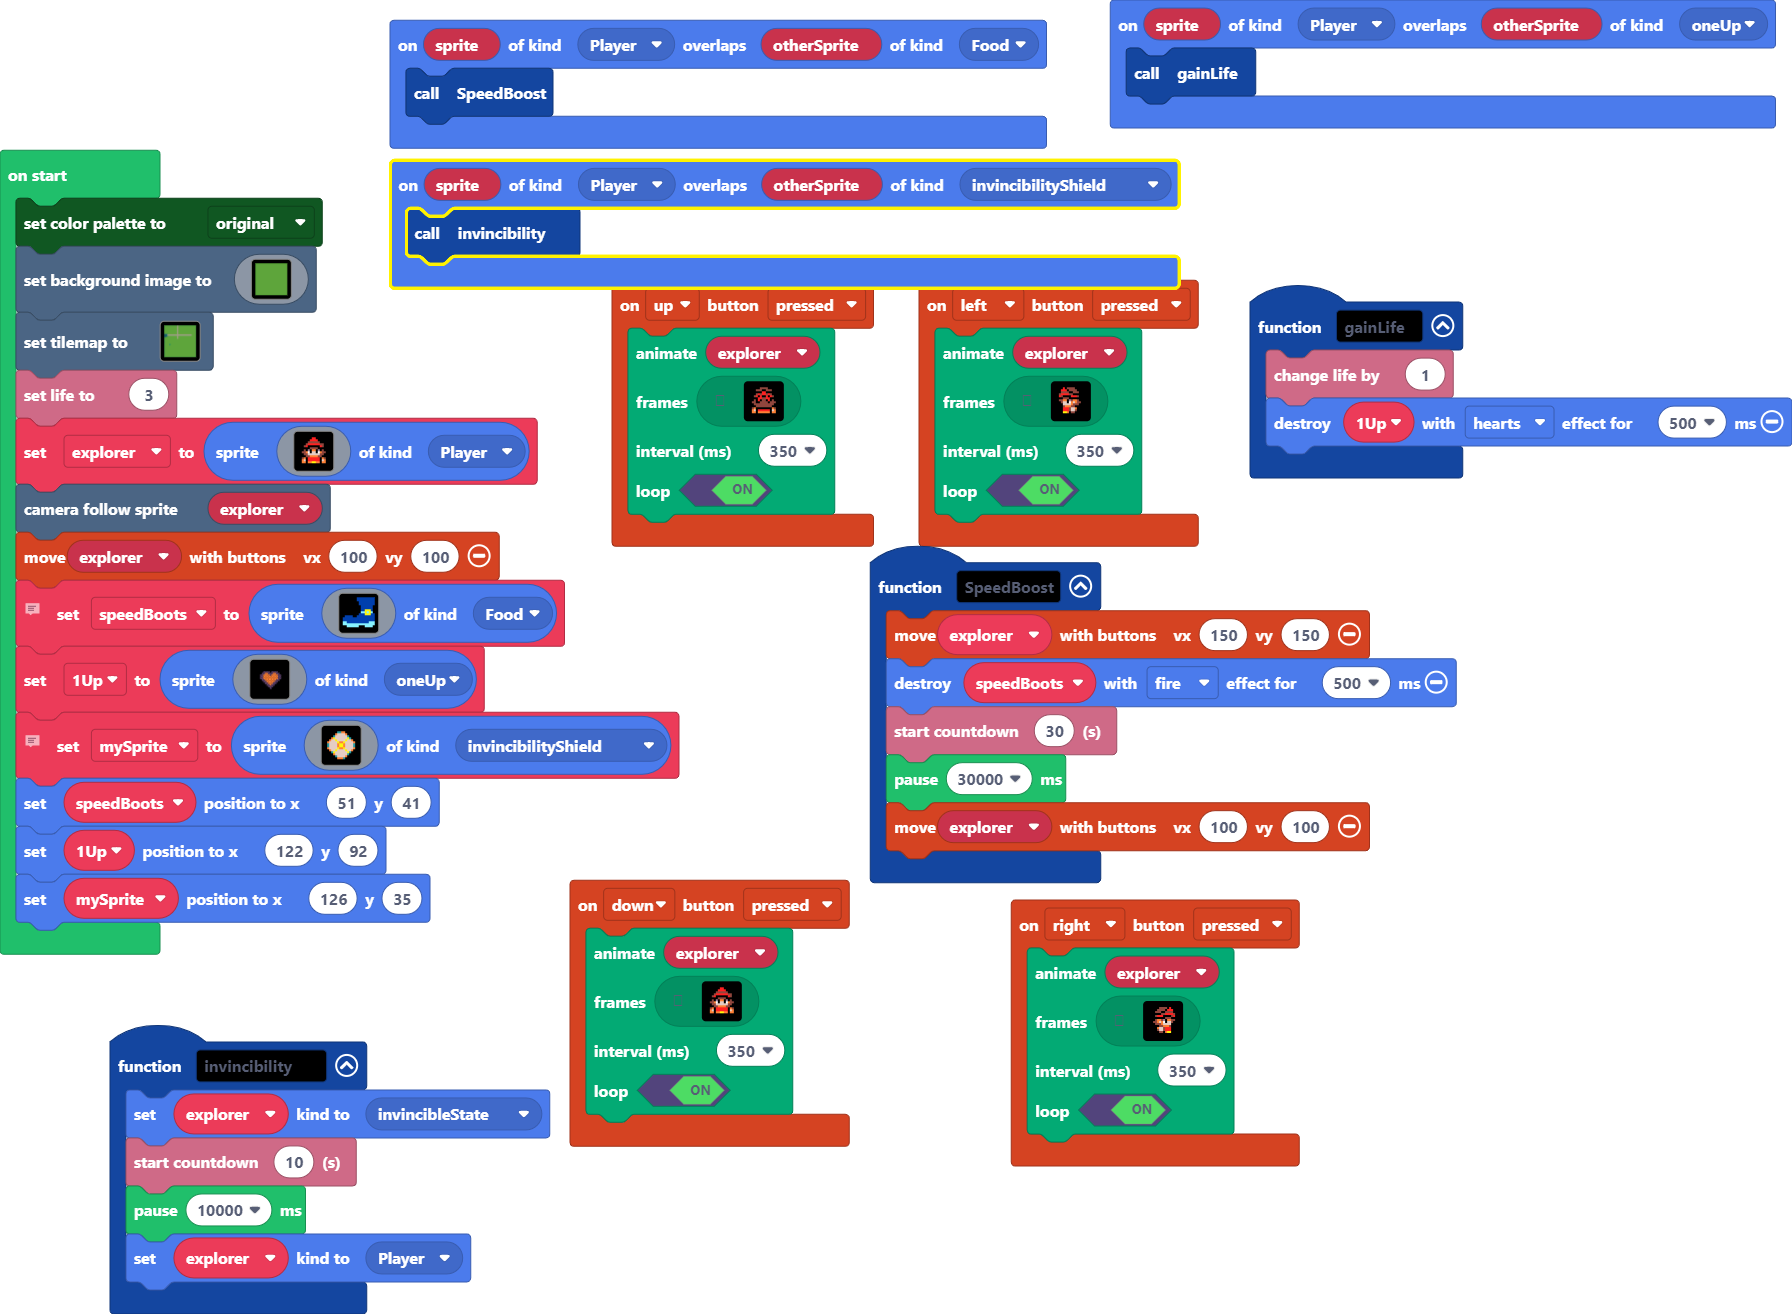
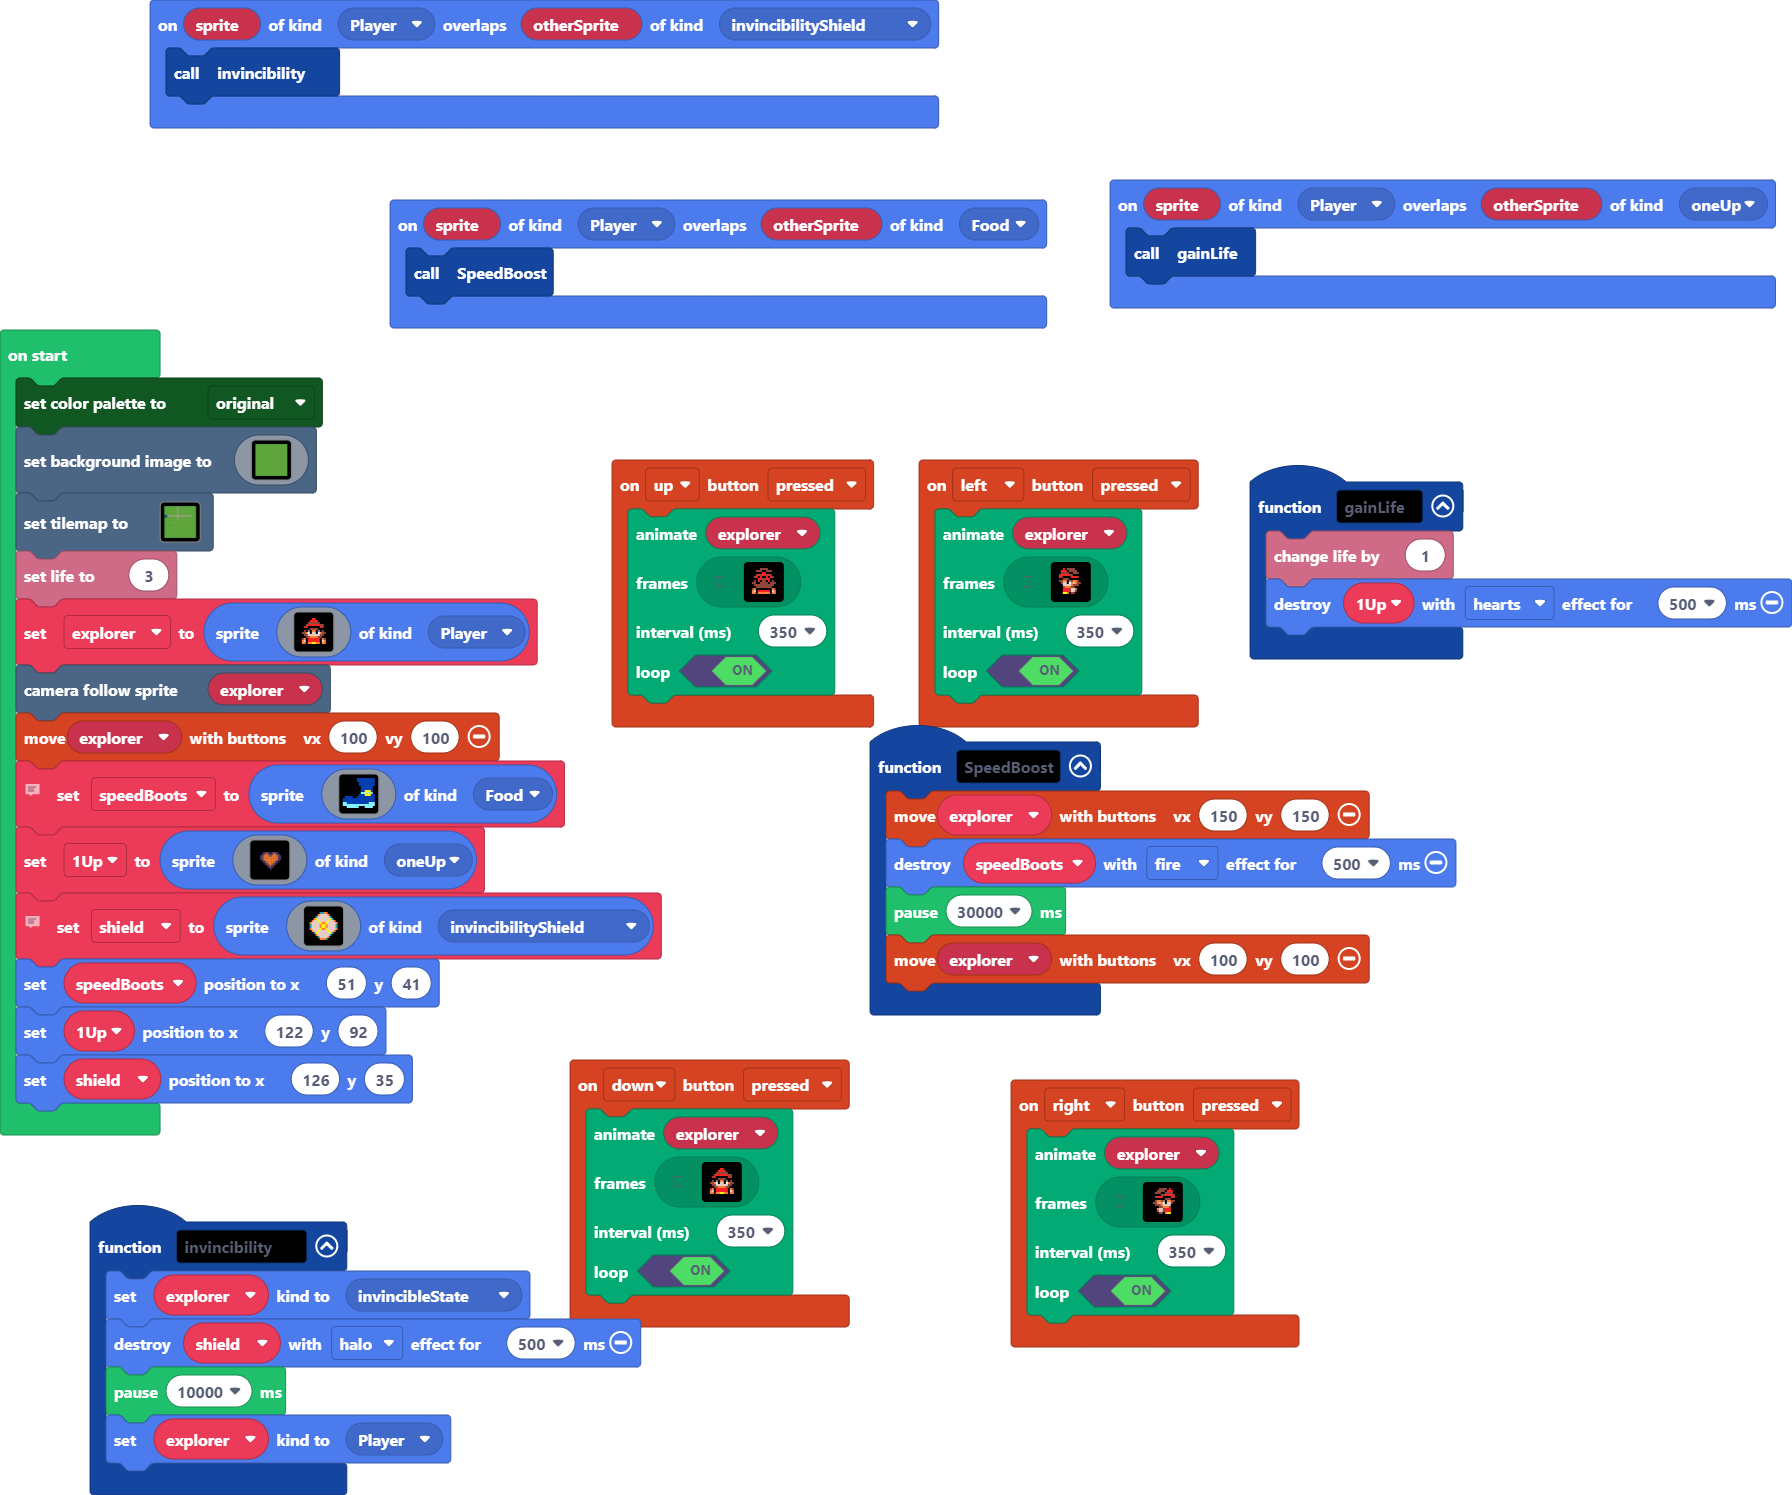
Update pxt.json, main.blocks, main.ts

diff --git a/main.ts b/main.ts
@@ -85,7 +85,6 @@ sprites.onOverlap(SpriteKind.Player, SpriteKind.oneUp, function (sprite, otherSp
 function SpeedBoost () {
     controller.moveSprite(explorer, 150, 150)
     speedBoots.destroy(effects.fire, 500)
-    info.startCountdown(30)
     pause(30000)
     controller.moveSprite(explorer, 100, 100)
 }
@@ -167,7 +166,7 @@ controller.left.onEvent(ControllerButtonEvent.Pressed, function () {
 })
 function invincibility () {
     explorer.setKind(SpriteKind.invincibleState)
-    info.startCountdown(10)
+    shield.destroy(effects.halo, 500)
     pause(10000)
     explorer.setKind(SpriteKind.Player)
 }
@@ -333,6 +332,7 @@ function gainLife () {
     info.changeLifeBy(1)
     _1Up.destroy(effects.hearts, 500)
 }
+let shield: Sprite = null
 let _1Up: Sprite = null
 let speedBoots: Sprite = null
 let explorer: Sprite = null
@@ -516,7 +516,7 @@ _1Up = sprites.create(img`
     ....................
     `, SpriteKind.oneUp)
 // Credit for Sprite Inspiration goes to https://clockworkraven.itch.io/rpg-icon-pack-160-fantasy-shields
-let mySprite = sprites.create(img`
+shield = sprites.create(img`
     . . . . . f f f f f f . . . . . 
     . . . . f f 6 6 4 4 f f . . . . 
     . . . f f 4 d d d d 4 f f . . . 
@@ -536,4 +536,4 @@ let mySprite = sprites.create(img`
     `, SpriteKind.invincibilityShield)
 speedBoots.setPosition(51, 41)
 _1Up.setPosition(122, 92)
-mySprite.setPosition(126, 35)
+shield.setPosition(126, 35)
